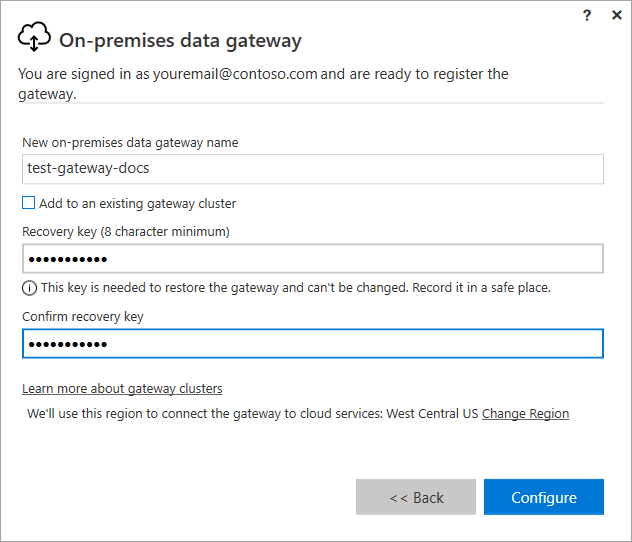
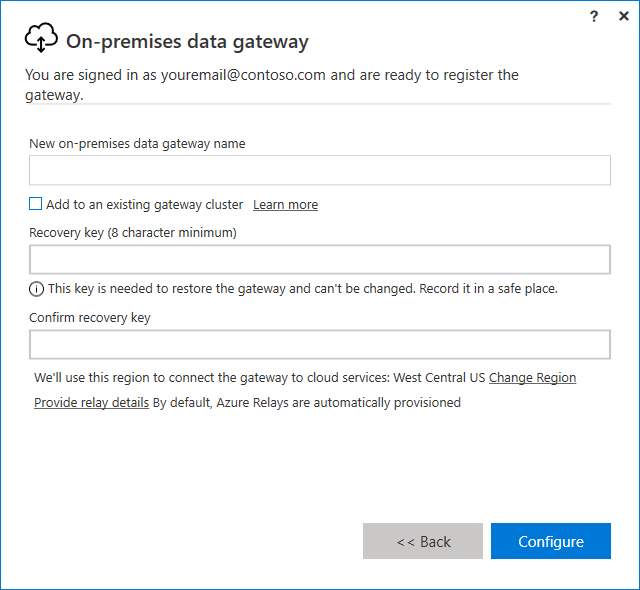
Added Azure Relay article, updates

diff --git a/data-integration/gateway/service-gateway-monthly-updates.md b/data-integration/gateway/service-gateway-monthly-updates.md
@@ -19,6 +19,13 @@ This article describes the four previous updates for the on-premises data gatewa
 - Download the [latest on-premises data gateway](https://download.microsoft.com/download/D/A/1/DA1FDDB8-6DA8-4F50-B4D0-18019591E182/GatewayInstall.exe)
 - Download the [latest on-premises data gateway (personal mode)](https://download.microsoft.com/download/6/0/2/602A459E-E1A3-4FB9-B07F-FC2B60881900/On-premises%20data%20gateway%20(personal%20mode).exe)
 
+## June 2020 update (3000.45.7)
+
+- [List of features released](https://powerbi.microsoft.com/blog/on-premises-data-gateway-June-2020-update-is-now-available/)
+- [Download the June 2020 version of on-premises data gateway](https://download.microsoft.com/download/D/A/1/DA1FDDB8-6DA8-4F50-B4D0-18019591E182/GatewayInstall-20-06.exe)
+- [Download the June 2020 version of on-premises data gateway (personal mode)](https://download.microsoft.com/download/6/0/2/602A459E-E1A3-4FB9-B07F-FC2B60881900/On-premises%20data%20gateway%20(personal%20mode)-20-06.exe)
+
+
 ## May 2020 update (3000.40.15)
 
 - [List of features released](https://powerbi.microsoft.com/blog/on-premises-data-gateway-May-2020-update-is-now-available/)
@@ -36,12 +43,6 @@ This article describes the four previous updates for the on-premises data gatewa
 - [List of features released](https://powerbi.microsoft.com/blog/on-premises-data-gateway-March-2020-update-is-now-available/)
 - Download the [March 2020 version of on-premises data gateway](https://download.microsoft.com/download/D/A/1/DA1FDDB8-6DA8-4F50-B4D0-18019591E182/GatewayInstall-20-03.exe)
 - Download the [March 2020 version of on-premises data gateway (personal mode)](https://download.microsoft.com/download/6/0/2/602A459E-E1A3-4FB9-B07F-FC2B60881900/On-premises%20data%20gateway%20(personal%20mode)-20-03.exe)
-
-## February 2020 update (3000.27.30)
-
-- [List of features released](https://powerbi.microsoft.com/blog/on-premises-data-gateway-February-2020-update-is-now-available/)
-- Download the [February 2020 version of on-premises data gateway](https://download.microsoft.com/download/D/A/1/DA1FDDB8-6DA8-4F50-B4D0-18019591E182/GatewayInstall-20-02.exe)
-- Download the [February 2020 version of on-premises data gateway (personal mode)](https://download.microsoft.com/download/6/0/2/602A459E-E1A3-4FB9-B07F-FC2B60881900/On-premises%20data%20gateway%20(personal%20mode)-20-02.exe)
 
 ## Next steps
 

diff --git a/data-integration/gateway/service-gateway-azure-relay.md b/data-integration/gateway/service-gateway-azure-relay.md
@@ -1,0 +1,43 @@
+---
+title: "Set the Azure Relay for on-premises data gateway"
+description: Learn how to change the details of the Azure Relay for an on-premises data gateway.
+author: arthiriyer
+manager: kfile
+ms.reviewer: ''
+
+ms.technology: on-premises-data-gateway
+ms.topic: conceptual
+ms.date: 07/21/2020
+ms.author: arthii
+
+
+LocalizationGroup: Gateways
+---
+
+# Set the Azure Relay for on-premises data gateway
+
+During installation of the on-premises data gateway, the Azure Relays are automatically provisioned. However, you have the option to provide your own relay details.
+
+**To provide your own relay details**
+
+1.	Select **Provide Relay details**. 
+
+    ![Select Provide Relay details](media/service-gateway-azure-relay/configure-gateway-2.png)
+
+2.	You can now provide additional details about your relay.
+
+    ![Provide additional relay details](media/service-gateway-azure-relay/provide-relay-details.png)
+ 
+    1. **WCF Relay endpoint URI**&mdash;Provide the URI (highlighted below) for your WCF relay from the Azure portal.
+
+       ![Provide the WCF relay URI](media/service-gateway-azure-relay/wfc-relay-uri.png)
+  
+    2. **Send key value and the Listen Key Value**&mdash;Create two shared access policies, one called SendAccessKey and the other ListenAccessKey. Provide either the primary or the secondary keys in the on-premises data gateway app. To learn more, see [Azure Relay authentication and authorization](https://docs.microsoft.com/azure/azure-relay/relay-authentication-and-authorization).
+
+       ![](media/service-gateway-azure-relay/send-access-key-policy.png)
+
+## Next steps
+
+- [What is Azure Relay?](https://docs.microsoft.com/azure/azure-relay/relay-what-is-it)
+  
+. 

diff --git a/data-integration/gateway/service-gateway-install.md b/data-integration/gateway/service-gateway-install.md
@@ -8,7 +8,7 @@ ms.reviewer: ''
 
 ms.technology: on-premises-data-gateway
 ms.topic: conceptual
-ms.date: 09/19/2019
+ms.date: 07/21/2020
 ms.author: arthii
 
 LocalizationGroup: Gateways
@@ -83,6 +83,8 @@ Because the gateway runs on the computer that you install it on, be sure to inst
 
     > [!NOTE]
     > For soverign clouds, we currently only support installing gateways in the default PowerBI region of your tenant. The region picker on the installer is only supported for Public cloud.
+
+    Finally, you can also provide your own Azure Relay details. For more information about how to change the Azure Relay details, see [Set the Azure Relay for on-premises data gateway](service-gateway-azure-relay.md).
 
 1. Review the information in the final window. Because this example uses the same account for Power BI, Power Apps, and Power Automate, the gateway is available for all three services. Select **Close**.
 
